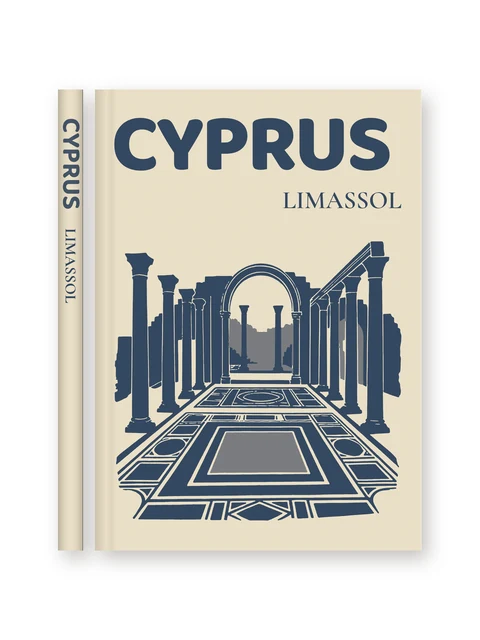
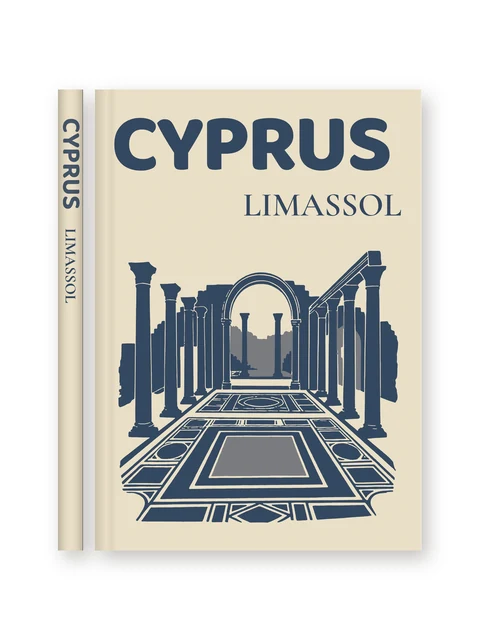
Cyprus template: smaller subtitle and room under it, so it no longer runs into the drawing in landscape
Claude-Session: https://claude.ai/code/session_019iW3qNmH4N4x87DfLWtU9k

Changed region(s): [[0.2188, 0.375, 0.8438, 0.8438], [0.5, 0.2812, 0.8438, 0.3438]]

diff --git a/frontend/src/lib/coverThemes.js b/frontend/src/lib/coverThemes.js
@@ -384,8 +384,8 @@ export const COVER_THEMES = [
           spine_title_size: 32,
           spine_title_font: BALOO,
           extra_items: [
-            iconItem(TRAVEL_CYPRUS_ICON, "travel_cyprus", { x: 0.06, y: 0.33, w: 0.88, h: 0.605 }),
-            textItem("subtitle", "LIMASSOL", { role: "subtitle", x: 0.44, y: 0.22, w: 0.5, h: 0.08, font: CORMORANT, font_weight: "600", font_size: 28, color: "#344860", text_align: "right" }),
+            iconItem(TRAVEL_CYPRUS_ICON, "travel_cyprus", { x: 0.07, y: 0.35, w: 0.86, h: 0.59 }),
+            textItem("subtitle", "LIMASSOL", { role: "subtitle", x: 0.44, y: 0.22, w: 0.5, h: 0.08, font: CORMORANT, font_weight: "600", font_size: 28, font_scale: 0.7, color: "#344860", text_align: "right" }),
           ],
         },
       },
